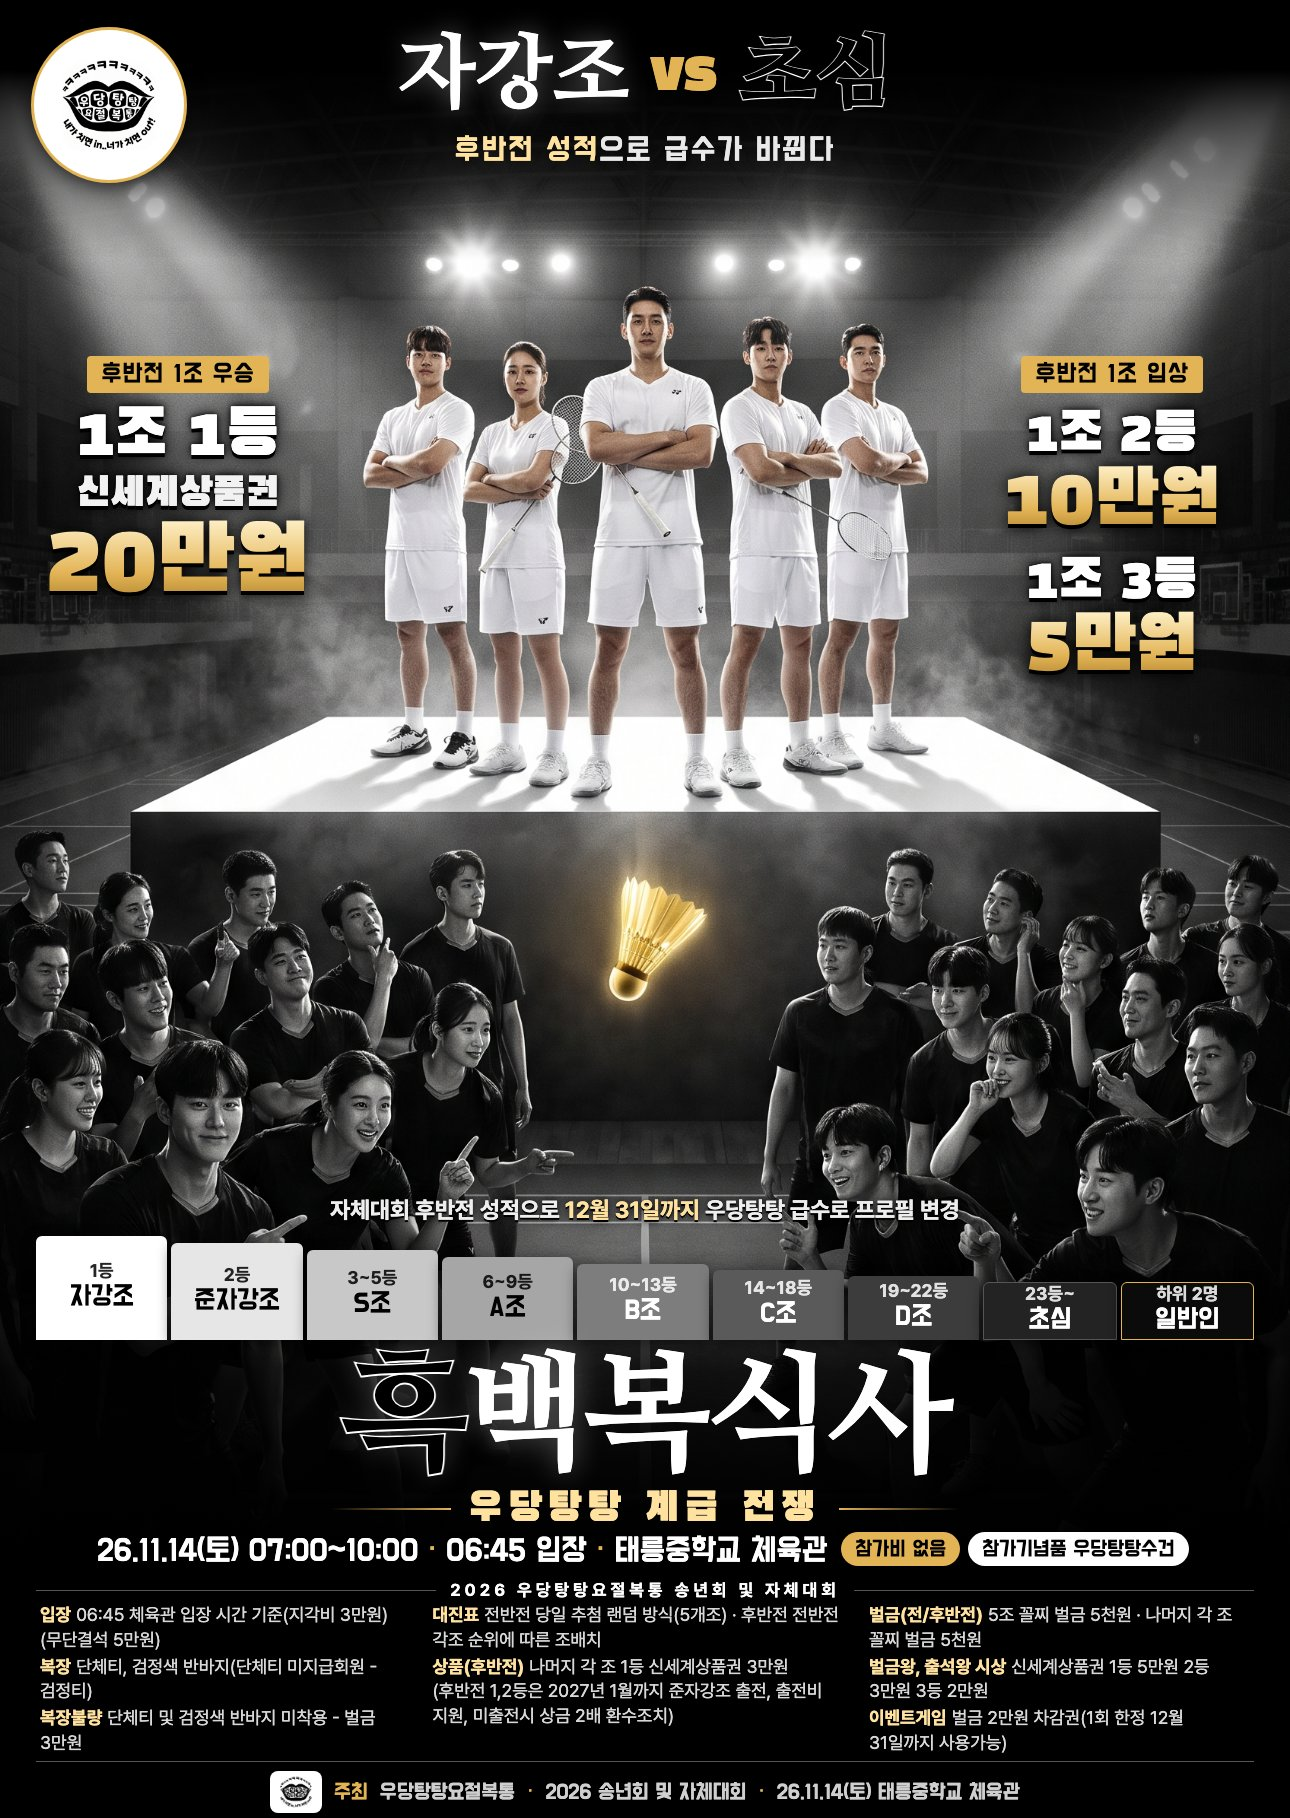
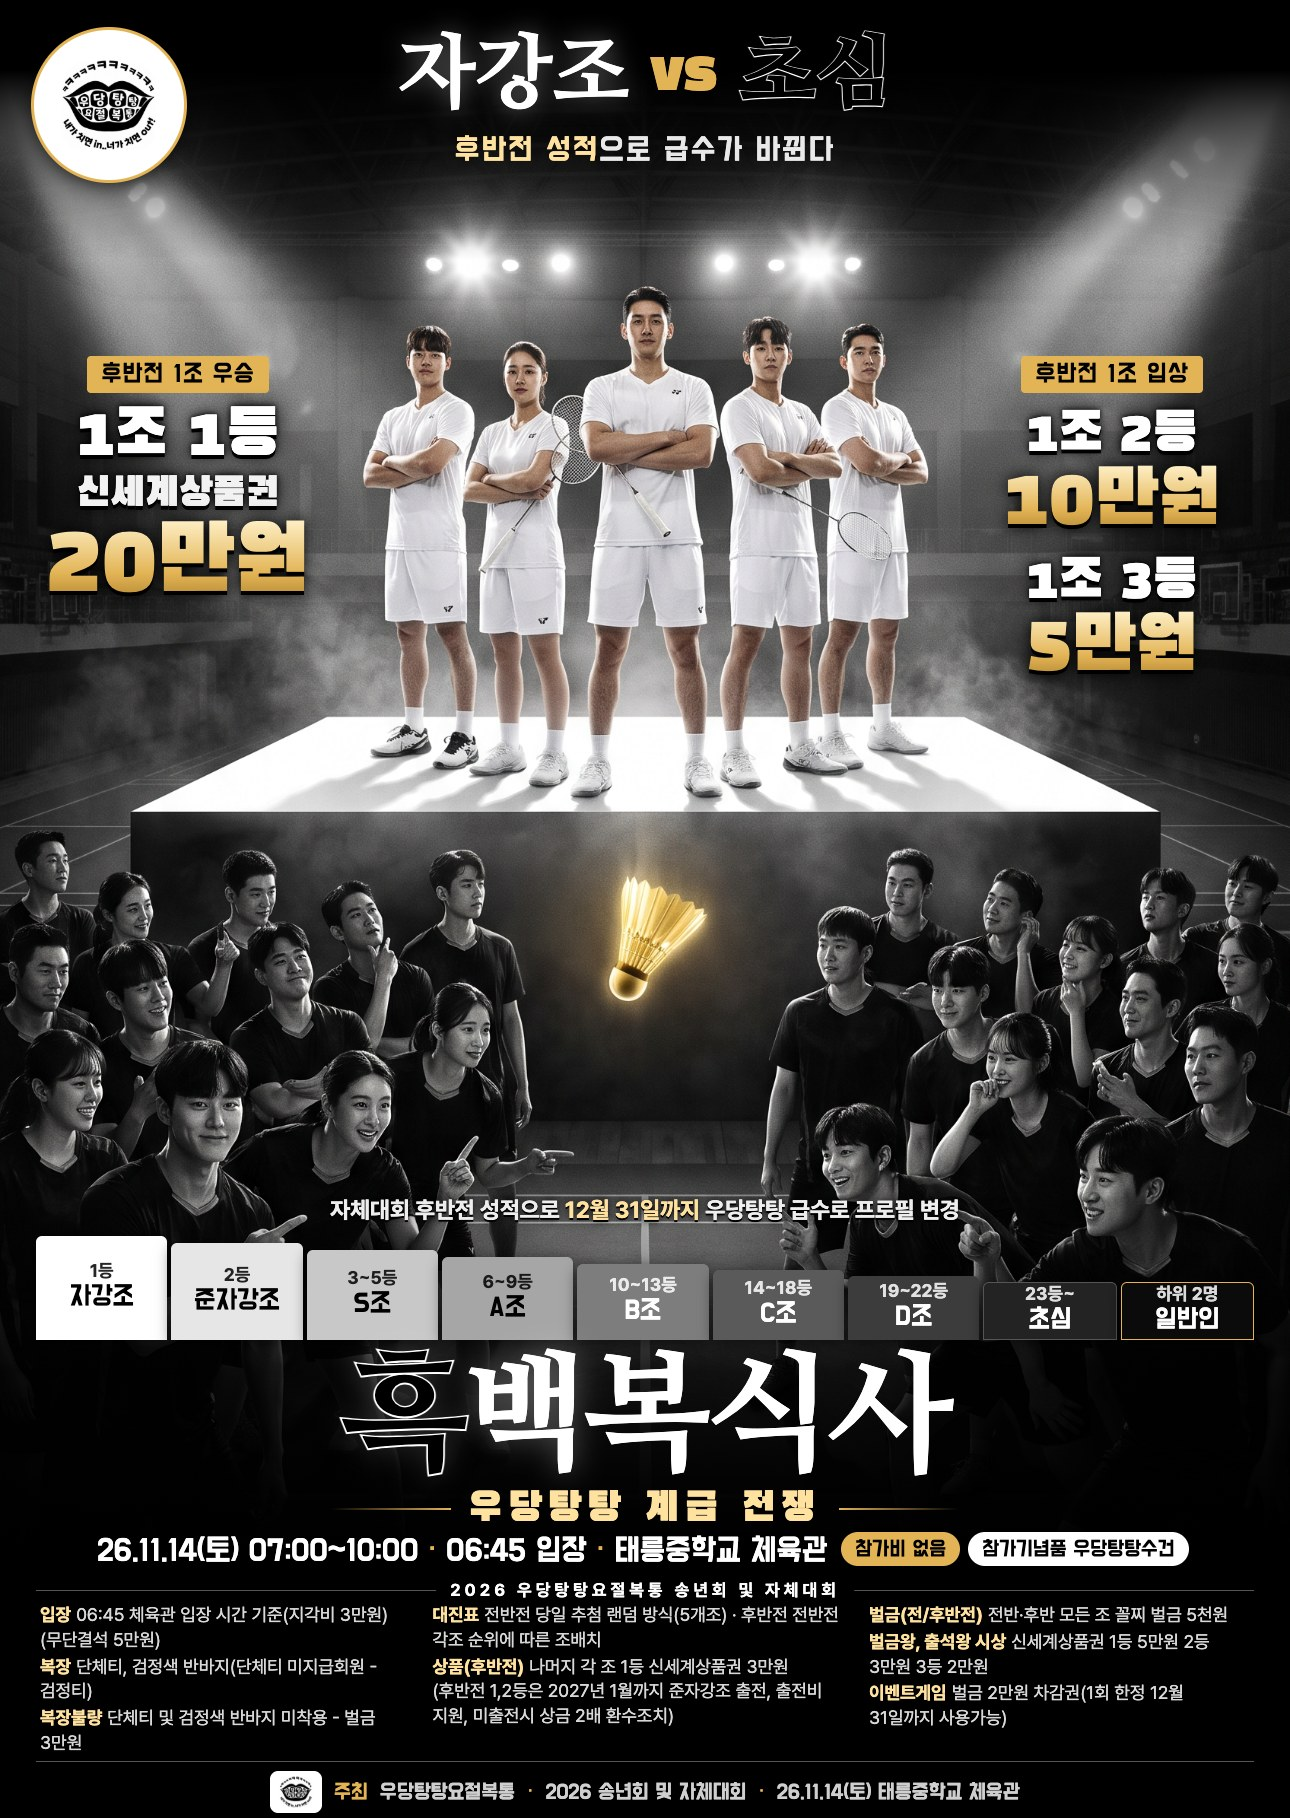
벌금 문구 단일화: 전반·후반 모든 조 꼴찌 5천원 (주최측 의견)
- 포스터 A·B·C 문구 교체, 문구 검사 29/29
- 웹 안내 문구 (전반·후반 전부), 계산 로직은 기존과 동일(전·후반 꼴찌마다 5천원)
- 자체 검사 main 23/23, bracket 55/55

Changed region(s): [[0.6512, 0.8625, 0.9612, 0.9857]]

diff --git a/index.html b/index.html
@@ -459,7 +459,7 @@ body[data-theme="C"] #show{background:radial-gradient(1200px 700px at 50% 30%,#3
       <button class="primary huge" id="btnEnter">입장하기 ▶</button>
       <div class="info-grid">
         <div class="info"><h3>⏰ 입장·복장</h3><p>06:45 체육관 입장 시간 기준<br>복장: 단체티 + 검정색 반바지<br><span class="muted small">(단체티 미지급 회원은 검정티)</span><br>참가비 없음 · 기념품 우당탕탕 수건</p></div>
-        <div class="info"><h3>💸 벌금</h3><p>지각 <b>3만원</b> · 무단결석 <b>5만원</b><br>복장불량 <b>3만원</b><br>각 조 꼴찌 <b>5천원</b> (전반·후반 각각)<br><span class="muted small">이벤트게임: 벌금 2만원 차감권(1회 한정, 12/31까지)</span></p></div>
+        <div class="info"><h3>💸 벌금</h3><p>지각 <b>3만원</b> · 무단결석 <b>5만원</b><br>복장불량 <b>3만원</b><br>각 조 꼴찌 <b>5천원</b> (전반·후반 전부)<br><span class="muted small">이벤트게임: 벌금 2만원 차감권(1회 한정, 12/31까지)</span></p></div>
         <div class="info"><h3>🏆 상품</h3><p>후반전 1조 1등 <b>20만원</b> · 2등 <b>10만원</b> · 3등 <b>5만원</b><br><span class="muted small">(1·2등은 2027년 1월까지 준자강조 출전·출전비 지원, 미출전 시 상금 2배 환수)</span><br>나머지 각 조 1등 <b>3만원</b><br>벌금왕·출석왕 1등 5만 · 2등 3만 · 3등 2만원<br><span class="muted small">모두 신세계상품권</span></p></div>
         <div class="info"><h3>🎯 대진·급수</h3><p>전반전: 당일 추첨 랜덤 5개조<br>후반전: 전반전 각 조 순위에 따른 조배치<br>후반전 성적으로 <b>12월 31일까지</b> 급수 프로필 변경</p>
           <table class="gtable"><tr><td>1등</td><td><b>자강</b></td><td>2등</td><td><b>준자강</b></td></tr><tr><td>3~5등</td><td>S</td><td>6~9등</td><td>A</td></tr><tr><td>10~13등</td><td>B</td><td>14~18등</td><td>C</td></tr><tr><td>19~22등</td><td>D</td><td>23등~</td><td>초심</td></tr><tr><td colspan="2">하위 2명</td><td colspan="2">일반인</td></tr></table></div>
@@ -2239,7 +2239,7 @@ function renderHalf(which){
     body += '<p class="muted small">경기 카드를 누르면 숫자 패드가 열립니다. 동점은 엑셀과 같이 승패 미집계(득실만 반영). 순위 = 승률 → 득실차 → (입력된 경우) 나이 — 화면에는 승·패·득실만 표시합니다.</p>';
   } else if (u.sub === 'rank' || u.sub === 'board') {
     body += (u.sub === 'board' ? `<h2>📊 ${label} 실시간 순위</h2>` : '') + rankCardsHtml(which, ev, editable && u.sub === 'rank');
-    if (u.sub === 'rank') body += '<p class="muted small">각 조 꼴찌 벌금 5천원(전반·후반 각각). 완전 동률(승·패·득실·나이 모두 같음)은 「동률!」 — 조 경기가 모두 끝나면 동전 던지기 또는 직접 지정으로 정하고, 결정 기록이 남습니다.</p>';
+    if (u.sub === 'rank') body += '<p class="muted small">각 조 꼴찌 벌금 5천원(전반·후반 전부). 완전 동률(승·패·득실·나이 모두 같음)은 「동률!」 — 조 경기가 모두 끝나면 동전 던지기 또는 직접 지정으로 정하고, 결정 기록이 남습니다.</p>';
   } else if (u.sub === 'call') {
     body += callBoardHtml(which, ev);
   }
@@ -2478,7 +2478,7 @@ function renderAward(){
   if (!rows) { el.innerHTML = '<p class="notice">5. 후반전을 확정(잠금)하면 최종 순위·급수·상품이 나옵니다. 전체 순위 = 후반전 1조 → 5조 순서 + 조 내 순위(엑셀 결과창 방식).</p>'; return; }
   const prizes = rows.filter(r => r.prize);
   el.innerHTML = `<div class="grid2"><div class="box"><h2>🏆 상품 (신세계상품권)</h2><ul>${prizes.map(r => `<li><b>${esc(r.name)}</b> — ${esc(r.prize.label)}${r.prize.note ? `<br><span class="small muted">${esc(r.prize.note)}</span>` : ''}</li>`).join('')}</ul></div>
-    <div class="box"><h2>📌 안내</h2><p><b>급수 프로필 변경: 12월 31일까지</b> (우당탕탕 급수)</p><p class="small muted">급수 기준: ${state.settings.gradeMode === 'poster' ? '포스터 구간(1 자강·2 준자강·3~5 S·6~9 A·10~13 B·14~18 C·19~22 D·23~ 초심·하위 2명 일반인)' : '엑셀 본선 결과창 고정표(후반전 조·조 내 순위별)'}</p><p class="small muted">각 조 꼴찌 벌금 5천원(전반·후반 각각). 벌금왕·출석왕은 🔒 운영자 화면에서 집계합니다.</p></div></div>
+    <div class="box"><h2>📌 안내</h2><p><b>급수 프로필 변경: 12월 31일까지</b> (우당탕탕 급수)</p><p class="small muted">급수 기준: ${state.settings.gradeMode === 'poster' ? '포스터 구간(1 자강·2 준자강·3~5 S·6~9 A·10~13 B·14~18 C·19~22 D·23~ 초심·하위 2명 일반인)' : '엑셀 본선 결과창 고정표(후반전 조·조 내 순위별)'}</p><p class="small muted">각 조 꼴찌 벌금 5천원(전반·후반 전부). 벌금왕·출석왕은 🔒 운영자 화면에서 집계합니다.</p></div></div>
     <div class="box" style="margin-top:12px;overflow:auto"><table class="final"><thead><tr><th>순위</th><th>이름</th><th>후반 조·순위</th><th>승·패·득실</th><th>급수</th><th>상품</th></tr></thead><tbody>${rows.map(r => `<tr><td class="num">${r.overall}</td><td><b>${esc(r.name)}</b></td><td>${r.group}조 ${r.rankInGroup}위${r.last ? ' <span class="stamp">꼴찌</span>' : ''}</td><td>${r.w}승 ${r.l}패 ${signed(r.diff)}</td><td><span class="gbadge" data-g="${r.grade}">${r.grade}</span></td><td>${r.prize ? esc(r.prize.label.replace(/^.*?신세계상품권 /, '')) : ''}</td></tr>`).join('')}</tbody></table></div>`;
 }
 $('#gradeModeChips').addEventListener('change', e => { if (e.target.name !== 'gradeMode') return; state.settings.gradeMode = e.target.value; save(); renderAward(); });
